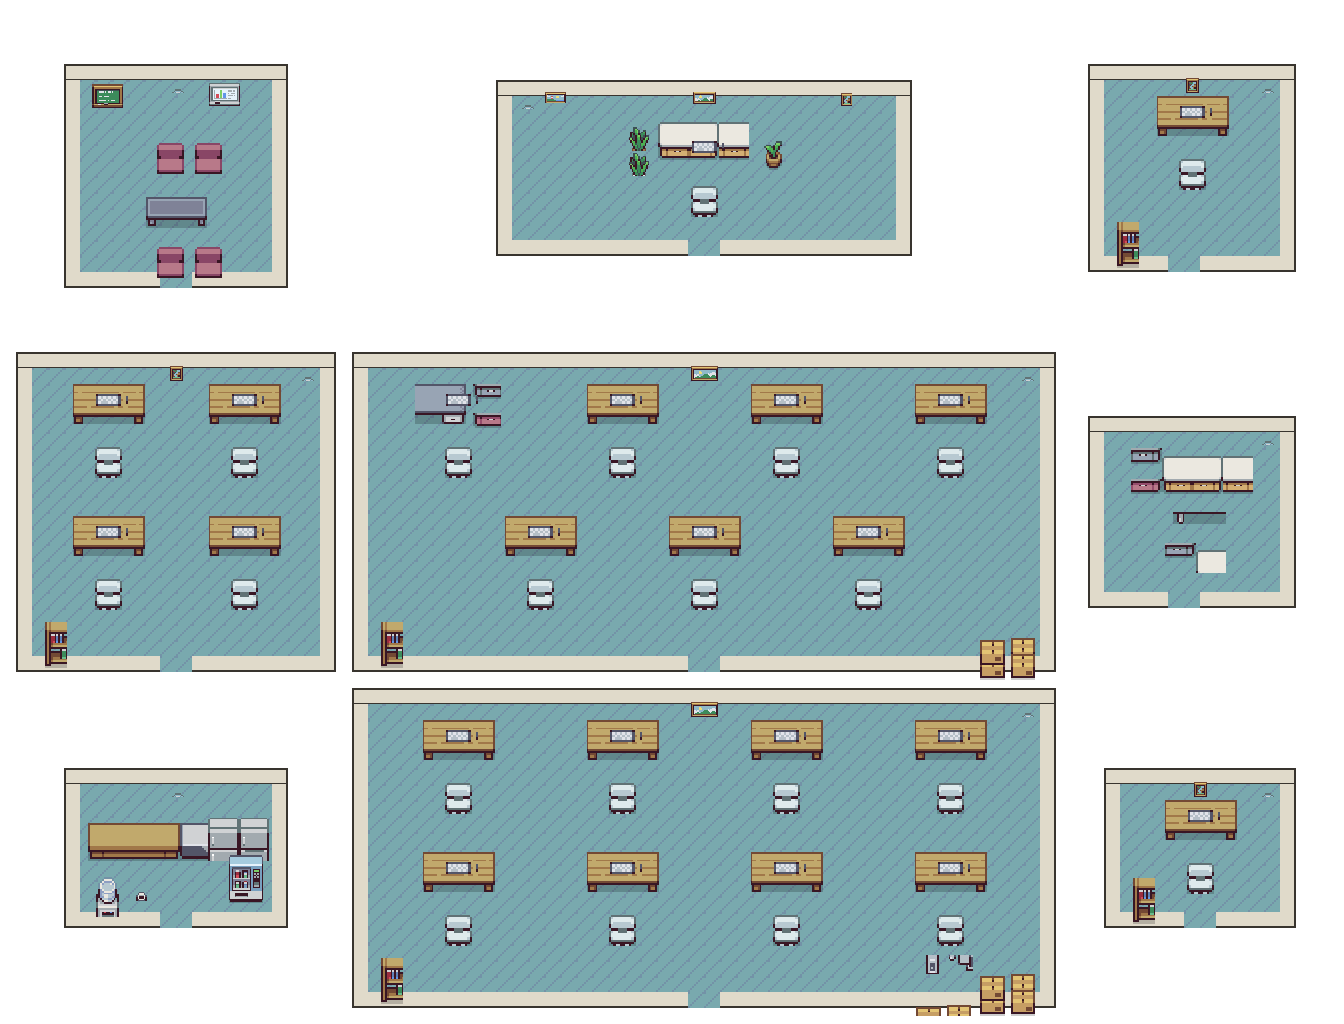
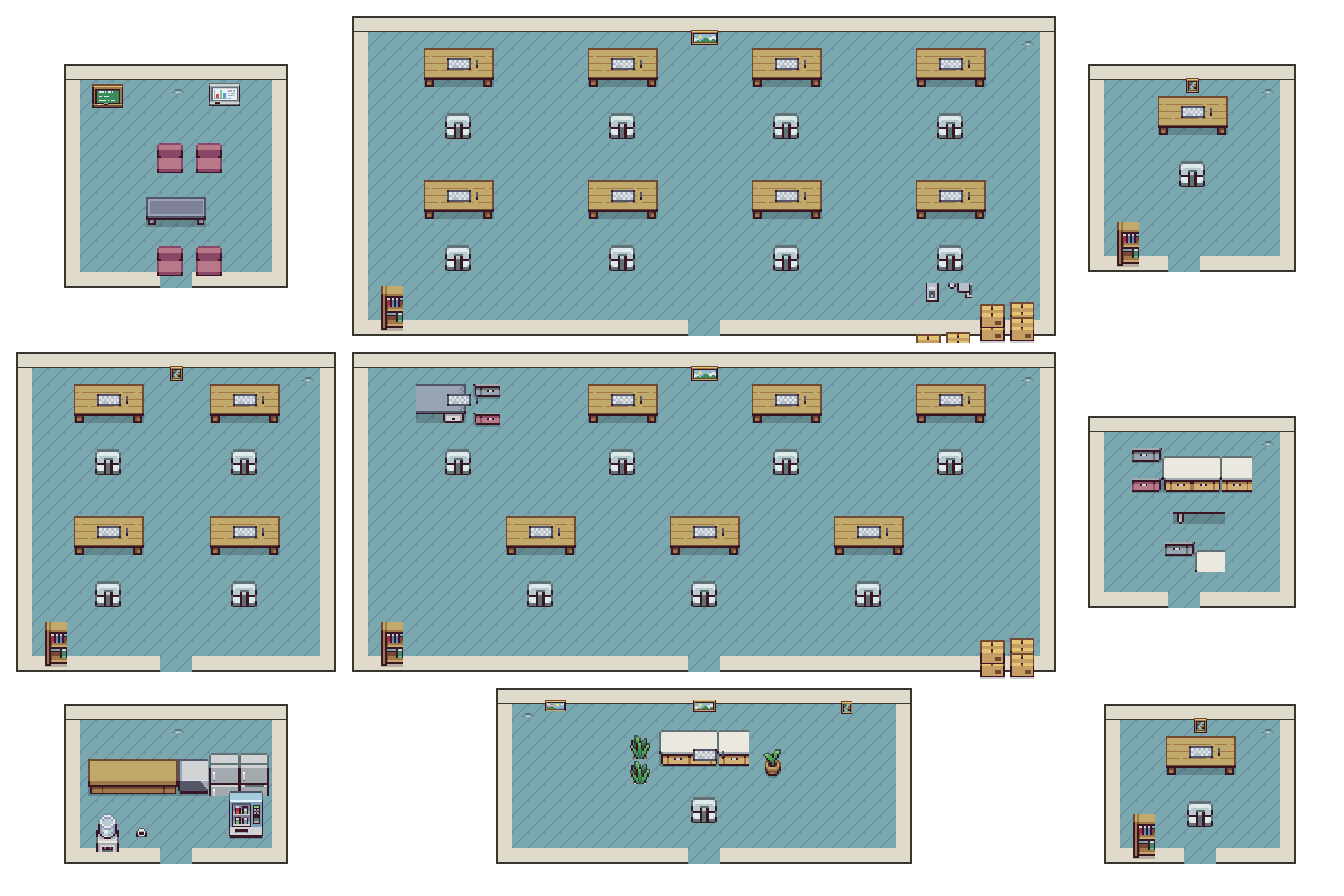
fix(office): 48x48 crisp furniture, chairs face desk, scale 1.1, revert swap
- Furniture now sourced from the 48x48 sheet (scaled down) — crisp instead of
  blurry upscaled 16x16; fixes the 'cut off / fuzzy' look.
- Chairs use the from-behind tile (c5) so agents read as facing their desk.
- Scale reduced 1.13x -> 1.1x (furniture + agents).
- Reverted the founder/教學組 room swap (back to original layout).
- Fixed keyboard width (was using wrong tile size, huge/offset). ART_VERSION 21.

diff --git a/ui/src/components/LivingOfficeFloor.tsx b/ui/src/components/LivingOfficeFloor.tsx
@@ -49,17 +49,17 @@ const FLOORS: FloorDef[] = [
     label: "Office",
     image: "/assets/pixelart/Office%20Square.png",
     natW: 1344,
-    natH: 1024,
+    natH: 896,
     zones: [
-      { id: "meeting", name: "會議室", team: null, x: 4.8, y: 6.3, w: 16.7, h: 21.9, color: "#10B981" },
-      { id: "teaching", name: "教學組", team: "教學組", x: 26.2, y: 67.2, w: 52.4, h: 31.3, color: "#8B5CF6", seats: [{"x":34.08,"y":77.7},{"x":46.28,"y":77.7},{"x":58.48,"y":77.7},{"x":70.68,"y":77.7},{"x":34.08,"y":90.59},{"x":46.28,"y":90.59},{"x":58.48,"y":90.59},{"x":70.68,"y":90.59}] },
-      { id: "talent", name: "人才發展", team: "人才發展", x: 81, y: 6.3, w: 15.5, h: 20.3, color: "#6366F1", seats: [{"x":88.69,"y":16.76}] },
-      { id: "lead", name: "領導團隊", team: "領導團隊", x: 1.2, y: 34.4, w: 23.8, h: 31.3, color: "#F59E0B", seats: [{"x":8.04,"y":44.88},{"x":18.15,"y":44.88},{"x":8.04,"y":57.77},{"x":18.15,"y":57.77}] },
-      { id: "it", name: "資訊部", team: "資訊部", x: 26.2, y: 34.4, w: 52.4, h: 31.3, color: "#3B82F6", seats: [{"x":34.08,"y":44.88},{"x":46.28,"y":44.88},{"x":58.48,"y":44.88},{"x":70.68,"y":44.88},{"x":40.18,"y":57.77},{"x":52.38,"y":57.77},{"x":64.58,"y":57.77}] },
-      { id: "lounge", name: "休息室", team: null, x: 81, y: 40.6, w: 15.5, h: 18.8, color: "#EC4899" },
-      { id: "pantry", name: "茶水間", team: null, x: 4.8, y: 75, w: 16.7, h: 15.6, color: "#14B8A6" },
-      { id: "founder", name: "創辦人辦公室", team: null, x: 36.9, y: 7.8, w: 31, h: 17.2, color: "#A855F7", soloAgent: "創辦人", seats: [{"x":52.38,"y":19.41}] },
-      { id: "auto", name: "系統自動化", team: "系統自動化", x: 82.1, y: 75, w: 14.3, h: 15.6, color: "#F97316", seats: [{"x":89.29,"y":85.51}] },
+      { id: "meeting", name: "會議室", team: null, x: 4.8, y: 7.1, w: 16.7, h: 25, color: "#10B981" },
+      { id: "teaching", name: "教學組", team: "教學組", x: 26.2, y: 1.8, w: 52.4, h: 35.7, color: "#8B5CF6", seats: [{"x":34.08,"y":13.61},{"x":46.28,"y":13.61},{"x":58.48,"y":13.61},{"x":70.68,"y":13.61},{"x":34.08,"y":28.34},{"x":46.28,"y":28.34},{"x":58.48,"y":28.34},{"x":70.68,"y":28.34}] },
+      { id: "talent", name: "人才發展", team: "人才發展", x: 81, y: 7.1, w: 15.5, h: 23.2, color: "#6366F1", seats: [{"x":88.69,"y":18.96}] },
+      { id: "lead", name: "領導團隊", team: "領導團隊", x: 1.2, y: 39.3, w: 23.8, h: 35.7, color: "#F59E0B", seats: [{"x":8.04,"y":51.11},{"x":18.15,"y":51.11},{"x":8.04,"y":65.84},{"x":18.15,"y":65.84}] },
+      { id: "it", name: "資訊部", team: "資訊部", x: 26.2, y: 39.3, w: 52.4, h: 35.7, color: "#3B82F6", seats: [{"x":34.08,"y":51.11},{"x":46.28,"y":51.11},{"x":58.48,"y":51.11},{"x":70.68,"y":51.11},{"x":40.18,"y":65.84},{"x":52.38,"y":65.84},{"x":64.58,"y":65.84}] },
+      { id: "lounge", name: "休息室", team: null, x: 81, y: 46.4, w: 15.5, h: 21.4, color: "#EC4899" },
+      { id: "pantry", name: "茶水間", team: null, x: 4.8, y: 78.6, w: 16.7, h: 17.9, color: "#14B8A6" },
+      { id: "founder", name: "創辦人辦公室", team: null, x: 36.9, y: 76.8, w: 31, h: 19.6, color: "#A855F7", soloAgent: "創辦人", seats: [{"x":52.38,"y":89.89}] },
+      { id: "auto", name: "系統自動化", team: "系統自動化", x: 82.1, y: 78.6, w: 14.3, h: 17.9, color: "#F97316", seats: [{"x":89.29,"y":90.39}] },
     ],
   },
 ];
@@ -73,7 +73,7 @@ const clamp = (v: number, lo: number, hi: number) => Math.max(lo, Math.min(hi, v
 // (maxWidth:none on the img), SPRITE_SCALE=1 keeps that same visible size while
 // per-character scale (male 1.3×) finally takes effect.
 const AGENT_SIZE = 84;
-const SPRITE_SCALE = 1.13;   // scaled up ~1.13× to match the larger furniture
+const SPRITE_SCALE = 1.1;    // scaled up ~1.1× to match the furniture
 
 // 8-way facing from a screen-space velocity (y points down → south).
 type Dir = "south" | "south-east" | "east" | "north-east" | "north" | "north-west" | "west" | "south-west";

diff --git a/ui/src/lib/office-sprite-catalog.ts b/ui/src/lib/office-sprite-catalog.ts
@@ -96,7 +96,7 @@ export const CATALOG_MANIFEST_URL = "/assets/office-characters/manifest.json";
 // Bump when the sprite PNGs are regenerated — the filenames stay the same, so
 // without this the browser serves stale cached images. Appended as ?v= to every
 // sprite URL so a redeploy always shows the latest art.
-export const ART_VERSION = "20";
+export const ART_VERSION = "21";
 
 /** Append the art-version cache-buster to a sprite URL. */
 export function bustCache(url: string): string {